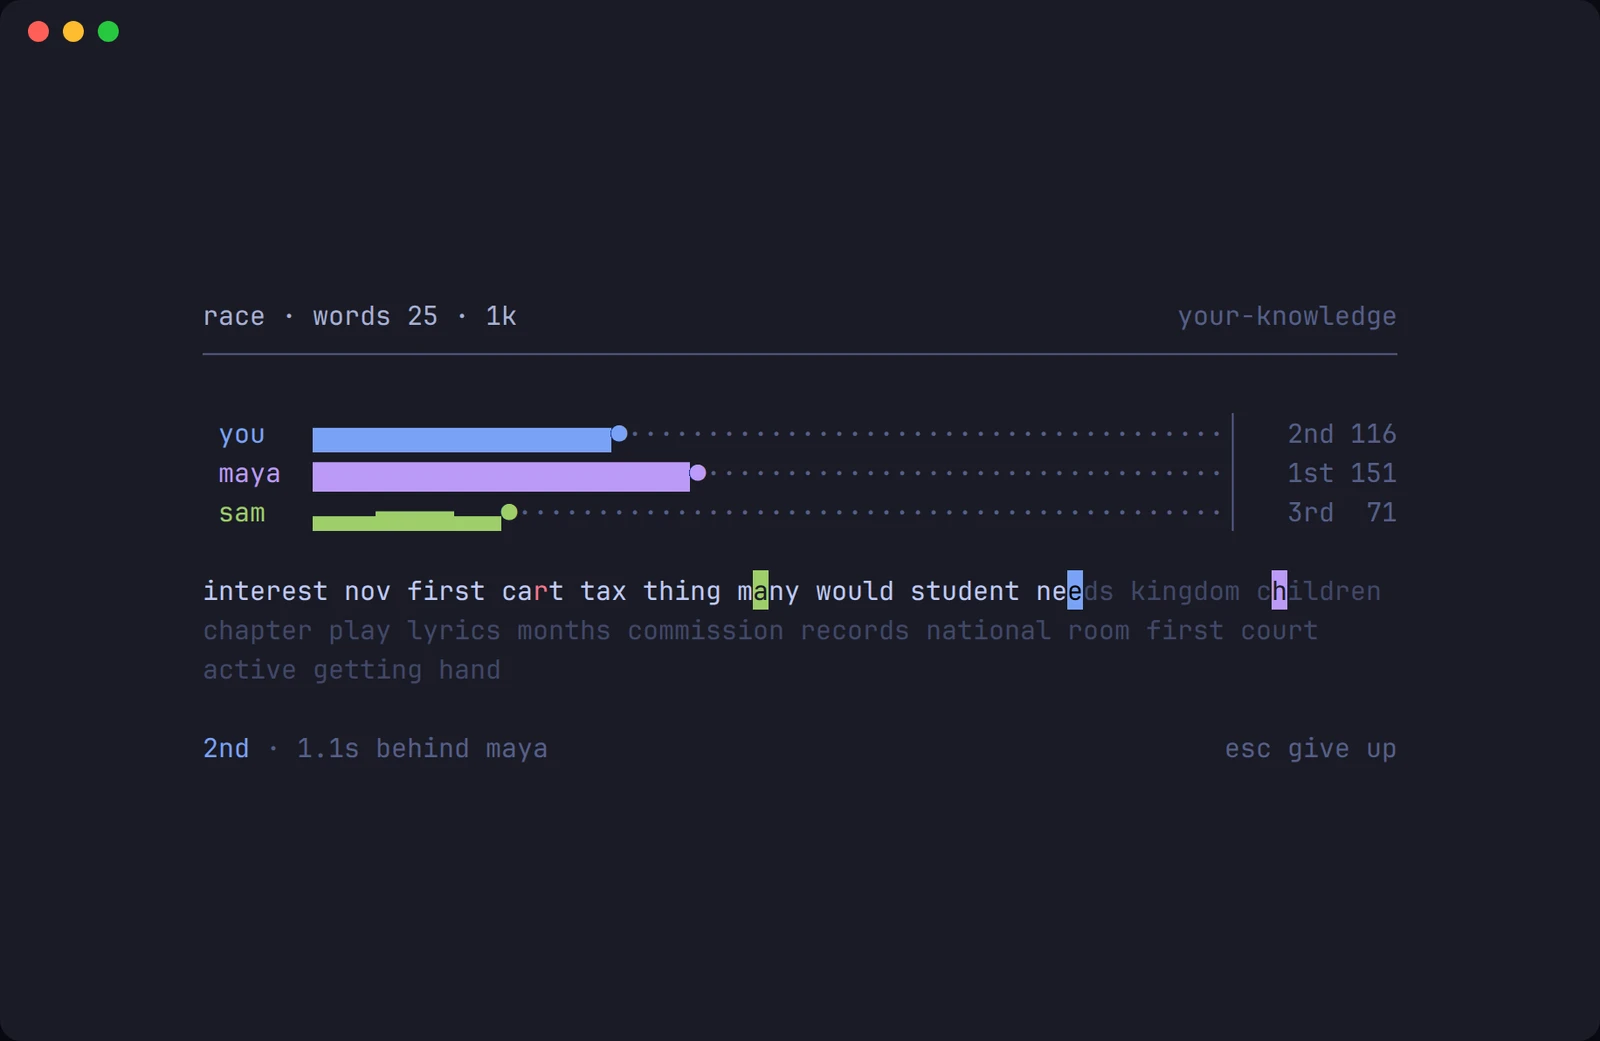
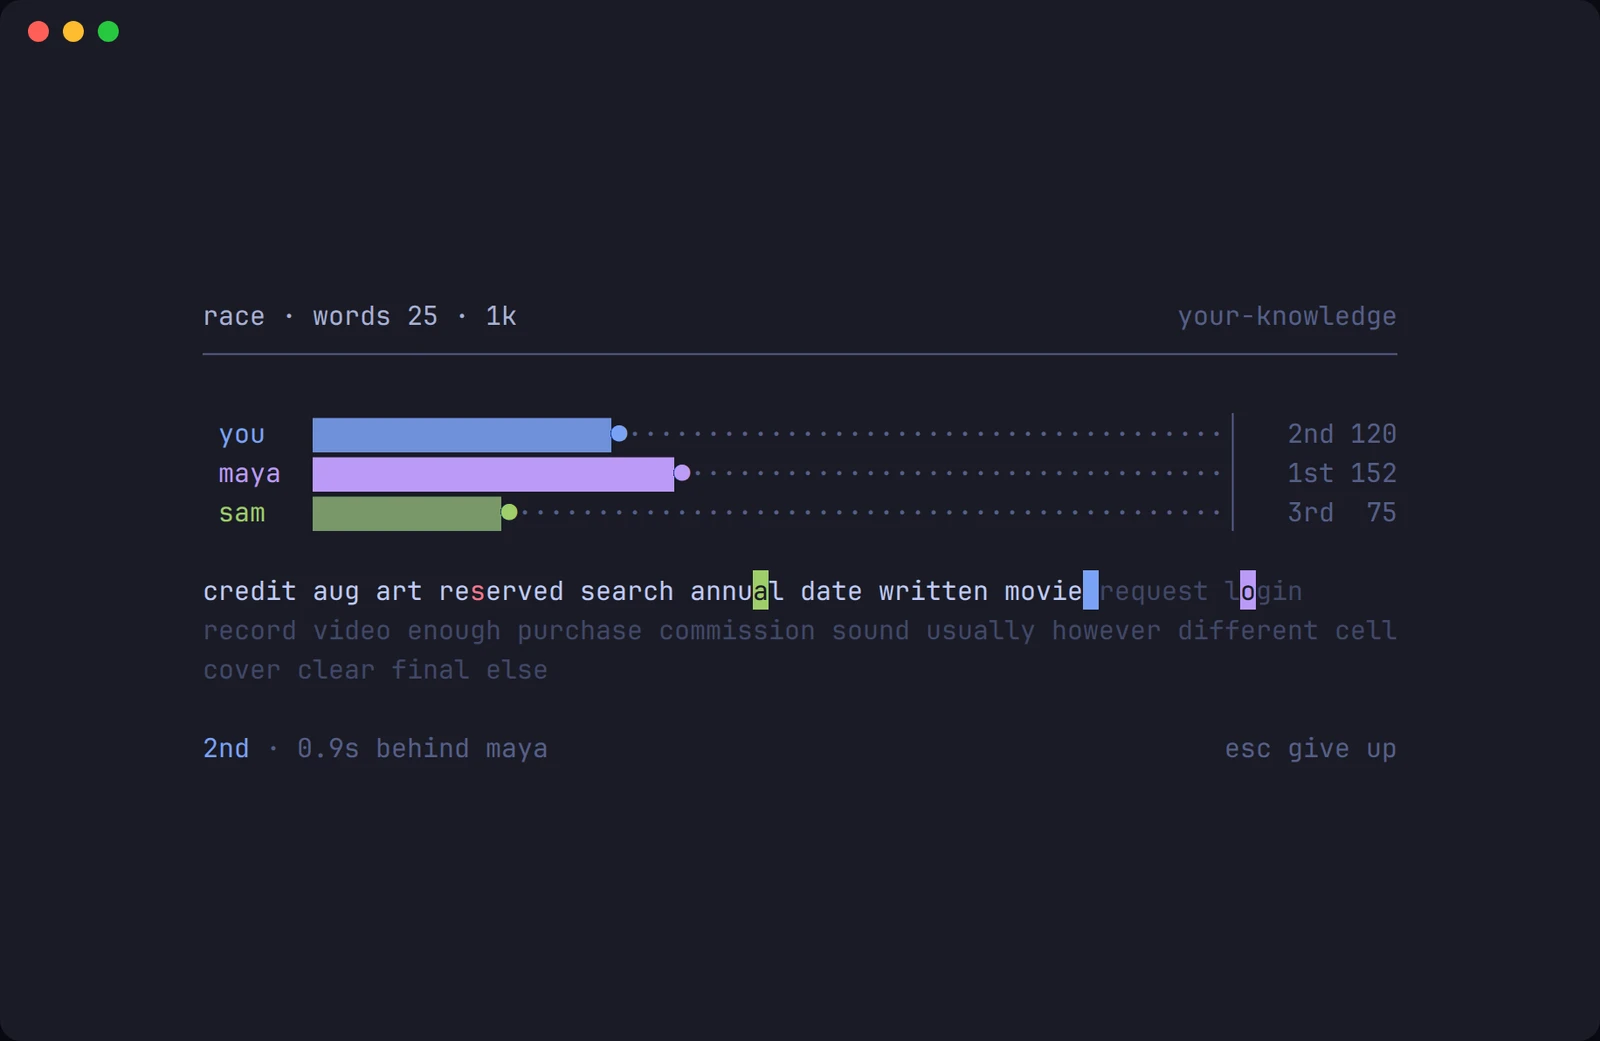
fix(race): centre the marker on each lane
Lane trails were block characters of varying height, filled up from the
bottom of the cell, so a slow stretch drew a short bar and the marker at
its end floated above it, by up to a quarter of a row. Trails are now one
height all the way along and show speed as tone instead, from a dim blend
of the racer's colour up to the full colour, so the marker sits centred on
every lane. Themes without hex colours, and NO_COLOR, draw the slower
tones faint.

diff --git a/internal/ui/raceview.go b/internal/ui/raceview.go
@@ -11,6 +11,7 @@ import (
 	"github.com/dawsonxiong/thock/internal/layout"
 	"github.com/dawsonxiong/thock/internal/race"
 	"github.com/dawsonxiong/thock/internal/render"
+	"github.com/dawsonxiong/thock/internal/theme"
 	"github.com/dawsonxiong/thock/internal/typing"
 )
 
@@ -20,17 +21,40 @@ const (
 	// laneRight is the width of the figure at the end of each lane.
 	laneRight = 8
 	// laneFloor is the least speed a lane scales its trail to, so a slow
-	// start does not draw at full height.
+	// start does not draw at full brightness.
 	laneFloor = 60
+	// laneBlock is the trail's one height. It stops short of the full cell so
+	// lanes on neighbouring rows keep a sliver of space between them.
+	laneBlock = "▇"
 )
 
 // racerStyle is a player's colour: the accent for you, and the theme's racer
 // colours for everyone else, in the order they joined, so a colour stays with
 // a player for as long as the room lasts.
 func (m *Model) racerStyle(id int) (fg, ghost string) {
+	i := m.racerSlot(id)
+	if i < 0 {
+		return m.tbl.Accent, ghostOf(m.tbl.Accent)
+	}
+	return m.tbl.Racer[i], m.tbl.Ghost[i]
+}
+
+// racerLane is the tones a racer's trail is drawn in, in the same colour as
+// the rest of their lane.
+func (m *Model) racerLane(id int) [theme.LaneShades]string {
+	i := m.racerSlot(id)
+	if i < 0 {
+		return m.tbl.AccentLane
+	}
+	return m.tbl.RacerLane[i]
+}
+
+// racerSlot is which of the theme's racer colours a player has, or -1 for
+// you, who always have the accent.
+func (m *Model) racerSlot(id int) int {
 	s := m.race
 	if id == s.me {
-		return m.tbl.Accent, ghostOf(m.tbl.Accent)
+		return -1
 	}
 	i := 0
 	for _, p := range s.st.Players {
@@ -41,7 +65,7 @@ func (m *Model) racerStyle(id int) (fg, ghost string) {
 			i++
 		}
 	}
-	return m.tbl.Racer[i%len(m.tbl.Racer)], m.tbl.Ghost[i%len(m.tbl.Ghost)]
+	return i % len(m.tbl.Racer)
 }
 
 // ghostOf turns a foreground style into a caret block of the same colour.
@@ -97,6 +121,7 @@ type lane struct {
 	id       int
 	name     string
 	style    string
+	shades   [theme.LaneShades]string
 	trace    []race.Point
 	done     float64
 	wpm      float64
@@ -115,7 +140,7 @@ func (m *Model) liveLanes() []lane {
 			continue
 		}
 		fg, _ := m.racerStyle(p.ID)
-		l := lane{id: p.ID, name: m.racerName(p.ID, p.Name), style: fg, trace: s.traces[p.ID],
+		l := lane{id: p.ID, name: m.racerName(p.ID, p.Name), style: fg, shades: m.racerLane(p.ID), trace: s.traces[p.ID],
 			done: p.Done, wpm: p.WPM, finished: p.Finished, out: p.Out, time: race.Dur(p.Time)}
 		if p.ID == s.me {
 			_, _, l.done = race.Position(m.eng)
@@ -139,7 +164,7 @@ func (m *Model) replayLanes(now time.Time) []lane {
 			continue
 		}
 		fg, _ := m.racerStyle(st.ID)
-		l := lane{id: st.ID, name: m.racerName(st.ID, st.Name), style: fg, trace: rp.traces[st.ID]}
+		l := lane{id: st.ID, name: m.racerName(st.ID, st.Name), style: fg, shades: m.racerLane(st.ID), trace: rp.traces[st.ID]}
 		_, _, l.done = race.Position(e)
 		if n := len(l.trace); n > 0 {
 			l.wpm = l.trace[n-1].WPM
@@ -202,7 +227,7 @@ func (m *Model) laneRows(box int, ls []lane, started bool) []string {
 		return nil
 	}
 
-	// One scale for every lane, so a taller trail really is a faster one.
+	// One scale for every lane, so a brighter trail really is a faster one.
 	hi := float64(laneFloor)
 	for _, l := range ls {
 		hi = math.Max(hi, l.wpm*1.15)
@@ -226,7 +251,7 @@ func (m *Model) laneRows(box int, ls []lane, started bool) []string {
 		name := layout.Truncate(l.name, maxLaneName)
 		b.WriteString(m.paint(l.style, name))
 		b.WriteString(strings.Repeat(" ", nameW-layout.Width(name)+2))
-		b.WriteString(m.paint(l.style, chart.Scaled(trail, 0, hi)))
+		m.trail(&b, trail, hi, l.shades)
 		head := "●"
 		if l.out {
 			head = "×"
@@ -251,6 +276,29 @@ func (m *Model) laneRows(box int, ls []lane, started bool) []string {
 		out = append(out, b.String())
 	}
 	return out
+}
+
+// trail draws the part of a lane already covered: one block per column, all
+// the same height so the marker at the end sits centred on it, each in the
+// tone for the racer's speed when they passed that point. Runs of one tone
+// share an escape sequence.
+func (m *Model) trail(b *strings.Builder, vals []float64, hi float64, shades [theme.LaneShades]string) {
+	cur := -1
+	for _, v := range vals {
+		tone := min(int(v/hi*theme.LaneShades), theme.LaneShades-1)
+		tone = max(tone, 0)
+		if tone != cur {
+			if cur >= 0 && shades[cur] != "" {
+				b.WriteString(m.tbl.Reset)
+			}
+			b.WriteString(shades[tone])
+			cur = tone
+		}
+		b.WriteString(laneBlock)
+	}
+	if cur >= 0 && shades[cur] != "" {
+		b.WriteString(m.tbl.Reset)
+	}
 }
 
 // header is the title row of every race screen: what is being raced on the

diff --git a/internal/theme/theme.go b/internal/theme/theme.go
@@ -5,6 +5,7 @@ package theme
 
 import (
 	"fmt"
+	"math"
 	"sort"
 	"strconv"
 	"strings"
@@ -60,7 +61,22 @@ type Table struct {
 	// your text: the character they are on, drawn as a block of their colour.
 	Racer [6]string
 	Ghost [6]string
+
+	// RacerLane and AccentLane are each racer's colour in LaneShades tones,
+	// slowest first, for the trail behind them on the track. Yours is the
+	// accent.
+	RacerLane  [6][LaneShades]string
+	AccentLane [LaneShades]string
 }
+
+// LaneShades is how many tones a race lane's trail is drawn in. The trail is
+// one height all the way along, so the racer's marker sits centred on it, and
+// speed shows as tone instead: brighter where the racer was faster.
+const LaneShades = 4
+
+// laneMix is how much of the racer's colour each tone keeps, blended into the
+// theme's pending-text colour, slowest first.
+var laneMix = [LaneShades]float64{0.4, 0.6, 0.8, 1}
 
 const reset = "\x1b[0m"
 
@@ -89,8 +105,53 @@ func Resolve(t Theme, colour bool) Table {
 		if p := sgr(Style{FG: c}, colour); p != "" {
 			tb.Ghost[i] = "\x1b[7;" + p[2:]
 		}
+		tb.RacerLane[i] = laneShades(Style{FG: c}, t.Pending.FG, colour)
 	}
+	tb.AccentLane = laneShades(t.Accent, t.Pending.FG, colour)
 	return tb
+}
+
+// laneShades ramps a style from dim to full. A hex colour is blended toward
+// base; anything else, an ANSI colour or no colour at all, has only the
+// faint attribute to work with, so the slower half of the ramp is faint.
+func laneShades(s Style, base Colour, colour bool) [LaneShades]string {
+	var out [LaneShades]string
+	for i, f := range laneMix {
+		if c, ok := blend(s.FG, base, f); ok && colour {
+			out[i] = sgr(Style{FG: c}, colour)
+			continue
+		}
+		t := s
+		if i < LaneShades/2 {
+			t.Bold, t.Faint = false, true
+		}
+		out[i] = sgr(t, colour)
+	}
+	return out
+}
+
+// blend mixes f of colour a with the rest of colour b. Both must be hex.
+func blend(a, b Colour, f float64) (Colour, bool) {
+	ar, ag, ab, ok1 := rgb(a)
+	br, bg, bb, ok2 := rgb(b)
+	if !ok1 || !ok2 {
+		return "", false
+	}
+	mix := func(x, y uint8) uint8 { return uint8(math.Round(float64(x)*f + float64(y)*(1-f))) }
+	return Colour(fmt.Sprintf("#%02x%02x%02x", mix(ar, br), mix(ag, bg), mix(ab, bb))), true
+}
+
+// rgb reads a hex colour.
+func rgb(c Colour) (r, g, b uint8, ok bool) {
+	s := string(c)
+	if !strings.HasPrefix(s, "#") || len(s) != 7 {
+		return 0, 0, 0, false
+	}
+	v, err := strconv.ParseUint(s[1:], 16, 32)
+	if err != nil {
+		return 0, 0, 0, false
+	}
+	return uint8(v >> 16), uint8(v >> 8), uint8(v), true
 }
 
 // monochrome re-expresses a palette using attributes alone.

diff --git a/internal/ui/race_test.go b/internal/ui/race_test.go
@@ -251,6 +251,38 @@ func allRacing(m *Model) bool {
 	return len(m.race.st.Players) > 0
 }
 
+// The trail behind each racer is one height all the way along, however their
+// speed changed, so the marker at its end sits centred on it.
+func TestLaneTrailIsOneHeight(t *testing.T) {
+	m, _ := newRaceModel(t)
+	pump(t, m, func() bool { return len(m.race.st.Players) == 2 })
+	m.Update(tea.KeyPressMsg{Code: tea.KeyEnter})
+	pump(t, m, func() bool { return m.screen == screenRace && allRacing(m) })
+	m.race.goAt = time.Now().Add(-3 * time.Second)
+	m.Update(raceTickMsg{m.race})
+	for i := range m.race.st.Players {
+		p := &m.race.st.Players[i]
+		if p.ID != m.race.me {
+			p.Done, p.WPM = 0.6, 90
+			// A slow start and a fast finish: two very different tones.
+			m.race.traces[p.ID] = []race.Point{{At: time.Second, Done: 0.1, WPM: 20}, {At: 2 * time.Second, Done: 0.6, WPM: 140}}
+		}
+	}
+	var lane string
+	for _, l := range strings.Split(screenText(m), "\n") {
+		if strings.Contains(l, "maya") && strings.Contains(l, "●") {
+			lane = l
+		}
+	}
+	if lane == "" {
+		t.Fatalf("no lane for maya:\n%s", screenText(m))
+	}
+	trail := lane[strings.Index(lane, "▇"):strings.Index(lane, "●")]
+	if strings.Trim(trail, "▇") != "" {
+		t.Errorf("trail has blocks of more than one height: %q", trail)
+	}
+}
+
 // textLine is the first line of the text on a race screen.
 func textLine(screen string) string {
 	for _, l := range strings.Split(screen, "\n") {

diff --git a/internal/theme/theme_test.go b/internal/theme/theme_test.go
@@ -1,0 +1,44 @@
+package theme
+
+import (
+	"strings"
+	"testing"
+)
+
+// A lane's tones brighten toward the racer's own colour, which the fastest
+// tone is exactly, so the lane still matches the racer's name and caret.
+func TestLaneShadesRampToTheRacerColour(t *testing.T) {
+	th, _ := Get("tokyonight")
+	tb := Resolve(th, true)
+	for i := range th.Racers {
+		ramp := tb.RacerLane[i]
+		if ramp[LaneShades-1] != tb.Racer[i] {
+			t.Errorf("racer %d: fastest tone %q is not the racer colour %q", i, ramp[LaneShades-1], tb.Racer[i])
+		}
+		for j := 1; j < LaneShades; j++ {
+			if ramp[j] == ramp[j-1] {
+				t.Errorf("racer %d: tones %d and %d are the same", i, j-1, j)
+			}
+		}
+	}
+	if tb.AccentLane[LaneShades-1] != tb.Accent {
+		t.Errorf("your fastest tone %q is not the accent %q", tb.AccentLane[LaneShades-1], tb.Accent)
+	}
+}
+
+// Without hex colours to blend, the slower half of the ramp is faint.
+func TestLaneShadesFallBackToFaint(t *testing.T) {
+	for _, tc := range []struct {
+		name   string
+		colour bool
+	}{{"terminal", true}, {"tokyonight", false}} {
+		th, _ := Get(tc.name)
+		ramp := Resolve(th, tc.colour).RacerLane[0]
+		for j, s := range ramp {
+			faint := strings.Contains(s, "[2m") || strings.Contains(s, "[2;") || strings.Contains(s, ";2m")
+			if want := j < LaneShades/2; faint != want {
+				t.Errorf("%s colour=%v: tone %d %q faint=%v, want %v", tc.name, tc.colour, j, s, faint, want)
+			}
+		}
+	}
+}
